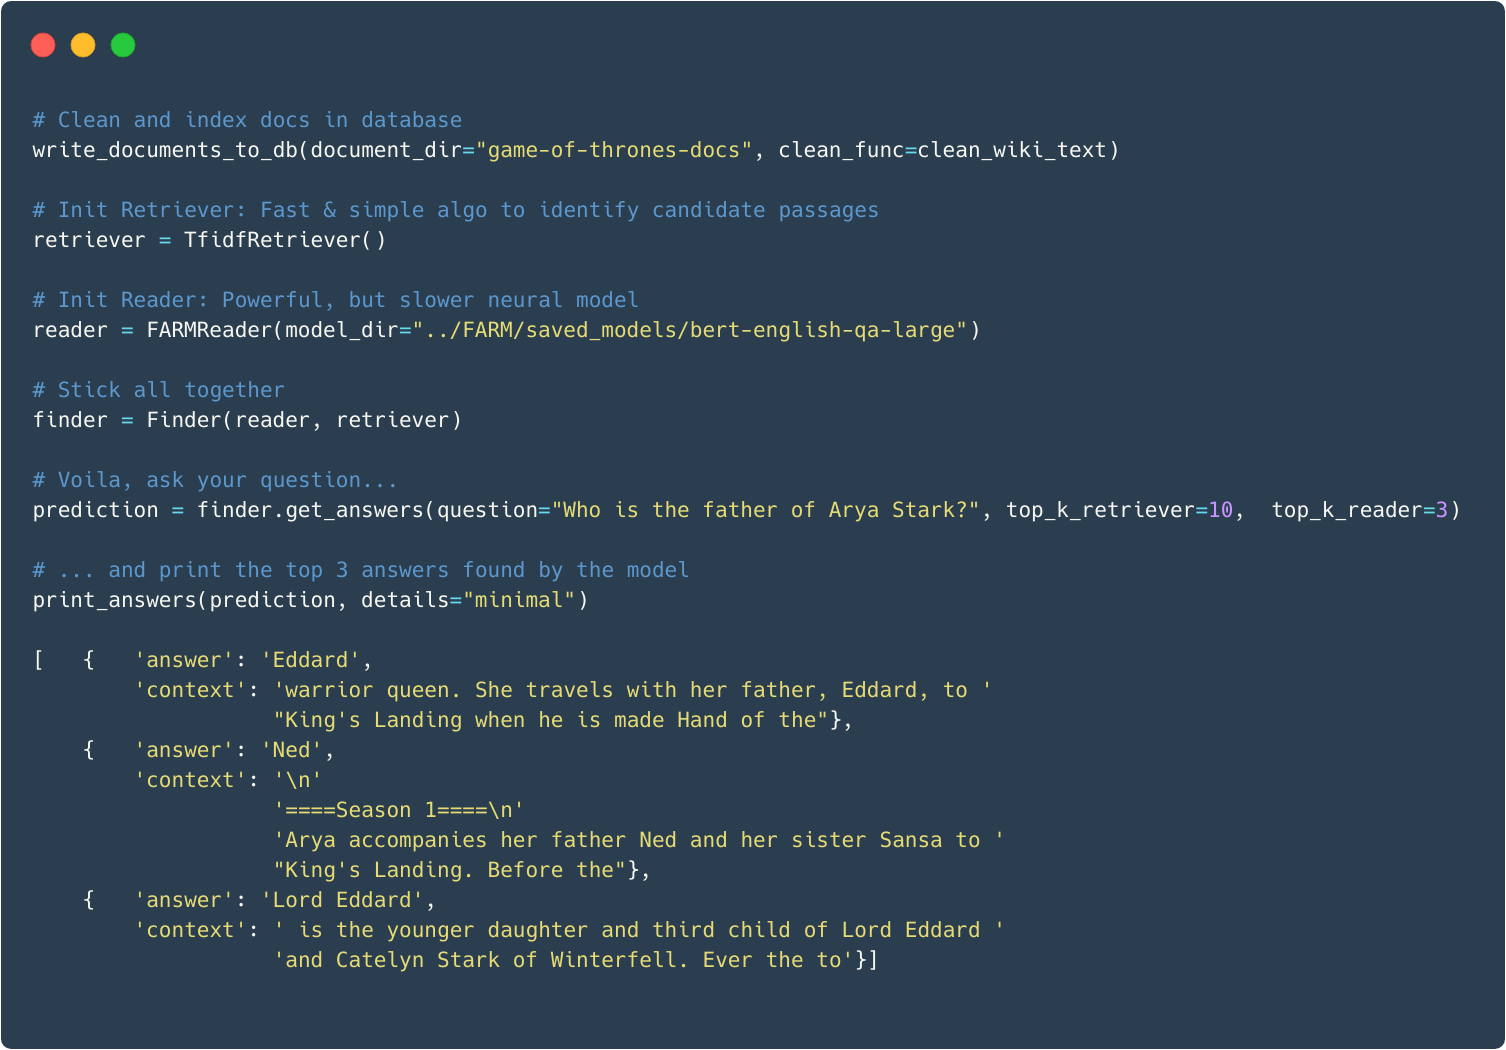
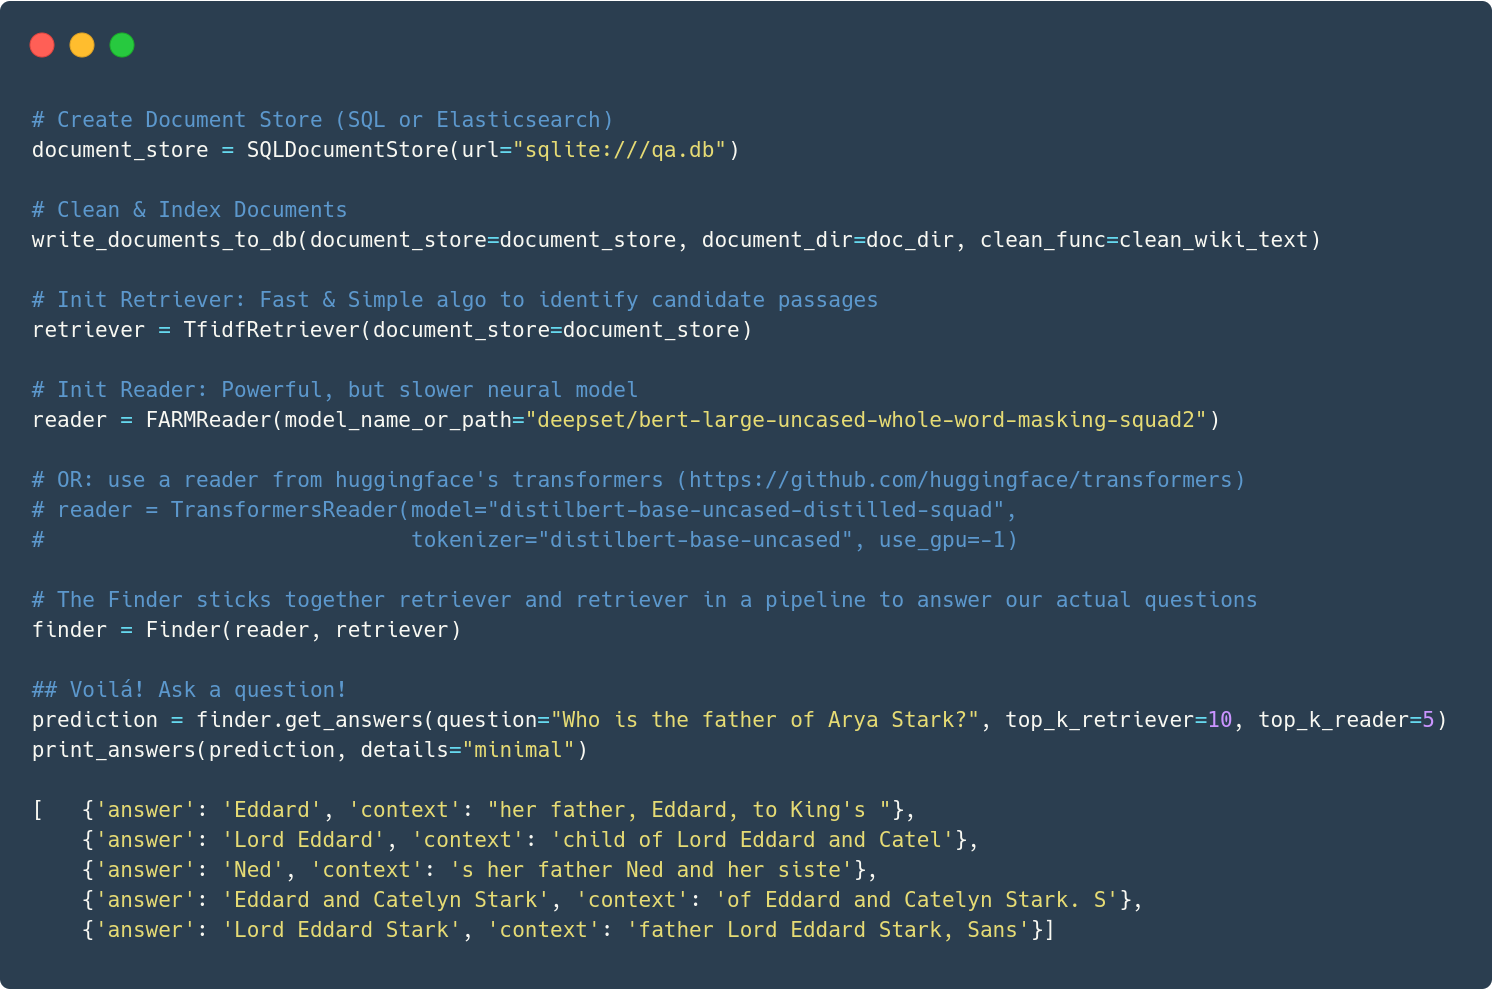
Add Elasticsearch Document Store (#13)

diff --git a/haystack/database/elasticsearch.py b/haystack/database/elasticsearch.py
@@ -1,0 +1,85 @@
+from elasticsearch import Elasticsearch
+from elasticsearch_dsl import Search, Document as ESDoc, Text, connections
+from haystack.database.base import BaseDocumentStore
+
+
+class Document(ESDoc):
+    name = Text()
+    text = Text()
+    tags = Text()
+
+    class Index:
+        name = "document"
+
+
+class ElasticsearchDocumentStore(BaseDocumentStore):
+    def __init__(self, host="localhost", username="", password="", index="document"):
+        self.client = Elasticsearch(hosts=[{"host": host}], http_auth=(username, password))
+        self.connections = connections.create_connection(hosts=[{"host": host}], http_auth=(username, password))
+        Document.init()  # create mapping if not exists.
+        self.index = index
+
+    def get_document_by_id(self, id):
+        query = {"filter": {"term": {"_id": id}}}
+        result = self.client.search(index=self.index, body=query)["hits"]["hits"]
+        if result:
+            document = {"id": result["_id"], "name": result["name"], "text": result["text"]}
+        else:
+            document = None
+        return document
+
+    def get_document_ids_by_tags(self, tags):
+        query = {
+            "query": {
+                "bool": {
+                    "should": [
+                        {
+                            "terms": {
+                                "tags": tags
+                            }
+                        }
+                    ]
+                }
+            }
+        }
+        result = self.client.search(index=self.index, body=query)["hits"]["hits"]
+        documents = []
+        for hit in result:
+            documents.append({"id": hit["_id"], "name": hit["name"], "text": hit["text"]})
+        return documents
+
+    def write_documents(self, documents):
+        for doc in documents:
+            d = Document(
+                name=doc["name"],
+                text=doc["text"],
+                document_id=doc.get("document_id", None),
+                tags=doc.get("tags", None),
+            )
+            d.save()
+
+    def get_document_count(self):
+        s = Search(using=self.client, index=self.index)
+        return s.count()
+
+    def get_all_documents(self):
+        search = Search(using=self.client, index=self.index)
+        documents = []
+        for hit in search:
+            documents.append(
+                {
+                    "id": hit.meta["id"],
+                    "name": hit["name"],
+                    "text": hit["text"],
+                }
+            )
+        return documents
+
+    def query(self, query, top_k=10):
+        search = Search(using=self.client, index=self.index).query("match", text=query)[:top_k].execute()
+        paragraphs = []
+        meta_data = []
+        for hit in search:
+            paragraphs.append(hit["text"])
+            meta_data.append({"paragraph_id": hit.meta["id"], "document_id": hit["document_id"]})
+        return paragraphs, meta_data

diff --git a/haystack/indexing/io.py b/haystack/indexing/io.py
@@ -8,7 +8,7 @@ import zipfile
 logger = logging.getLogger(__name__)
 
 
-def write_documents_to_db(datastore, document_dir, clean_func=None, only_empty_db=False):
+def write_documents_to_db(document_store, document_dir, clean_func=None, only_empty_db=False, split_paragrahs=False):
     """
     Write all text files(.txt) in the sub-directories of the given path to the connected database.
 
@@ -22,28 +22,42 @@ def write_documents_to_db(datastore, document_dir, clean_func=None, only_empty_d
 
     # check if db has already docs
     if only_empty_db:
-        n_docs = datastore.get_document_count()
+        n_docs = document_store.get_document_count()
         if n_docs > 0:
             logger.info(f"Skip writing documents since DB already contains {n_docs} docs ...  "
                         "(Disable `only_empty_db`, if you want to add docs anyway.)")
             return None
 
     # read and add docs
-    documents_to_write = []
+    docs_to_index = []
+    doc_id = 1
     for path in file_paths:
         with open(path) as doc:
             text = doc.read()
             if clean_func:
                 text = clean_func(text)
 
-            documents_to_write.append(
-                {
-                    "name": path.name,
-                    "text": text,
-                }
-            )
-    datastore.write_documents(documents_to_write)
-    logger.info(f"Wrote {len(documents_to_write)} docs to DB")
+            if split_paragrahs:
+                for para in text.split("\n\n"):
+                    if not para.strip():  # skip empty paragraphs
+                        continue
+                    docs_to_index.append(
+                        {
+                            "name": path.name,
+                            "text": para,
+                            "document_id": doc_id
+                        }
+                    )
+                    doc_id += 1
+            else:
+                docs_to_index.append(
+                    {
+                        "name": path.name,
+                        "text": text,
+                    }
+                )
+    document_store.write_documents(docs_to_index)
+    logger.info(f"Wrote {len(docs_to_index)} docs to DB")
 
 
 def fetch_archive_from_http(url, output_dir, proxies=None):

diff --git a/haystack/retriever/tfidf.py b/haystack/retriever/tfidf.py
@@ -1,7 +1,8 @@
-from abc import ABC, abstractmethod
-from collections import OrderedDict, namedtuple
 import logging
+from collections import OrderedDict, namedtuple
+
 import pandas as pd
+from haystack.retriever.base import BaseRetriever
 from sklearn.feature_extraction.text import TfidfVectorizer
 
 
@@ -9,20 +10,6 @@ logger = logging.getLogger(__name__)
 
 # TODO make Paragraph generic for configurable units of text eg, pages, paragraphs, or split by a char_limit
 Paragraph = namedtuple("Paragraph", ["paragraph_id", "document_id", "text"])
-
-
-class BaseRetriever(ABC):
-    @abstractmethod
-    def _get_all_paragraphs(self):
-        pass
-
-    @abstractmethod
-    def retrieve(self, query, candidate_doc_ids=None, top_k=1):
-        pass
-
-    @abstractmethod
-    def fit(self):
-        pass
 
 
 class TfidfRetriever(BaseRetriever):
@@ -35,7 +22,7 @@ class TfidfRetriever(BaseRetriever):
     It uses sklearn's TfidfVectorizer to compute a tf-idf matrix.
     """
 
-    def __init__(self, datastore):
+    def __init__(self, document_store):
         self.vectorizer = TfidfVectorizer(
             lowercase=True,
             stop_words=None,
@@ -43,7 +30,7 @@ class TfidfRetriever(BaseRetriever):
             ngram_range=(1, 1),
         )
 
-        self.datastore = datastore
+        self.document_store = document_store
         self.paragraphs = self._get_all_paragraphs()
         self.df = None
         self.fit()
@@ -52,12 +39,11 @@ class TfidfRetriever(BaseRetriever):
         """
         Split the list of documents in paragraphs
         """
-        documents = self.datastore.get_all_documents()
+        documents = self.document_store.get_all_documents()
 
         paragraphs = []
         p_id = 0
         for doc in documents:
-            _pgs = [d for d in doc["text"].splitlines() if d.strip()]
             for p in doc["text"].split("\n\n"):
                 if not p.strip():  # skip empty paragraphs
                     continue

diff --git a/tutorials/Tutorial1_Basic_QA_Pipeline.py b/tutorials/Tutorial1_Basic_QA_Pipeline.py
@@ -20,18 +20,18 @@ fetch_archive_from_http(url=s3_url, output_dir=doc_dir)
 # The documents can be stored in different types of "DocumentStores".
 # For dev we suggest a light-weight SQL DB
 # For production we suggest elasticsearch
-datastore = SQLDocumentStore(url="sqlite:///qa.db")
+document_store = SQLDocumentStore(url="sqlite:///qa.db")
 
 # Now, let's write the docs to our DB.
 # You can optionally supply a cleaning function that is applied to each doc (e.g. to remove footers)
 # It must take a str as input, and return a str.
-write_documents_to_db(datastore=datastore, document_dir=doc_dir, clean_func=clean_wiki_text, only_empty_db=True)
+write_documents_to_db(document_store=document_store, document_dir=doc_dir, clean_func=clean_wiki_text, only_empty_db=True)
 
 ## Initalize Reader, Retriever & Finder
 
 # A retriever identifies the k most promising chunks of text that might contain the answer for our question
 # Retrievers use some simple but fast algorithm, here: TF-IDF
-retriever = TfidfRetriever(datastore=datastore)
+retriever = TfidfRetriever(document_store=document_store)
 
 # A reader scans the text chunks in detail and extracts the k best answers
 # Reader use more powerful but slower deep learning models

diff --git a/tutorials/Tutorial2_Finetune_a_model_on_your_data.py b/tutorials/Tutorial2_Finetune_a_model_on_your_data.py
@@ -27,14 +27,14 @@ fetch_archive_from_http(url=s3_url, output_dir=doc_dir)
 
 
 # Init Document store & write docs to it
-datastore = SQLDocumentStore(url="sqlite:///qa.db")
-write_documents_to_db(datastore=datastore, document_dir=doc_dir, clean_func=clean_wiki_text, only_empty_db=True)
+document_store = SQLDocumentStore(url="sqlite:///qa.db")
+write_documents_to_db(document_store=document_store, document_dir=doc_dir, clean_func=clean_wiki_text, only_empty_db=True)
 
 ## Initalize Reader, Retriever & Finder
 
 # A retriever identifies the k most promising chunks of text that might contain the answer for our question
 # Retrievers use some simple but fast algorithm, here: TF-IDF
-retriever = TfidfRetriever(datastore=datastore)
+retriever = TfidfRetriever(document_store=document_store)
 
 # The Finder sticks together retriever and retriever in a pipeline to answer our actual questions
 finder = Finder(reader, retriever)

diff --git a/haystack/__init__.py b/haystack/__init__.py
@@ -1,8 +1,7 @@
-from haystack.retriever.tfidf import TfidfRetriever
-from haystack.reader.farm import FARMReader
 import logging
 
 import pandas as pd
+
 pd.options.display.max_colwidth = 80
 
 logger = logging.getLogger(__name__)
@@ -21,8 +20,6 @@ class Finder:
 
     def __init__(self, reader, retriever):
         self.retriever = retriever
-        self.retriever.fit()
-
         self.reader = reader
 
     def get_answers(self, question, top_k_reader=1, top_k_retriever=10, filters=None):
@@ -39,7 +36,7 @@ class Finder:
 
         # 1) Optional: reduce the search space via document tags
         if filters:
-            candidate_doc_ids = self.retriever.datastore.get_document_ids_by_tags(filters)
+            candidate_doc_ids = self.retriever.document_store.get_document_ids_by_tags(filters)
         else:
             candidate_doc_ids = None
 

diff --git a/test/test_db.py b/test/test_db.py
@@ -3,9 +3,9 @@ from haystack.indexing.io import write_documents_to_db
 
 
 def test_db_write_read():
-    sql_datastore = SQLDocumentStore()
-    write_documents_to_db(datastore=sql_datastore, document_dir="samples/docs")
-    documents = sql_datastore.get_all_documents()
+    sql_document_store = SQLDocumentStore()
+    write_documents_to_db(document_store=sql_document_store, document_dir="samples/docs")
+    documents = sql_document_store.get_all_documents()
     assert len(documents) == 2
-    doc = sql_datastore.get_document_by_id("1")
+    doc = sql_document_store.get_document_by_id("1")
     assert doc.keys() == {"id", "name", "text", "tags"}

diff --git a/haystack/database/sql.py b/haystack/database/sql.py
@@ -83,9 +83,8 @@ class SQLDocumentStore(BaseDocumentStore):
                       GROUP BY dt.document_id
               """
         tag_filters = []
-        for tag, value in tags.items():
-            if value:
-                tag_filters.append(f"SUM(CASE WHEN t.value='{value}' THEN 1 ELSE 0 END) > 0")
+        for tag in tags:
+            tag_filters.append(f"SUM(CASE WHEN t.value='{tag}' THEN 1 ELSE 0 END) > 0")
 
         final_query = f"{query} HAVING {' AND '.join(tag_filters)});"
         query_results = self.session.execute(final_query)

diff --git a/haystack/retriever/elasticsearch.py b/haystack/retriever/elasticsearch.py
@@ -1,0 +1,9 @@
+from haystack.retriever.base import BaseRetriever
+
+
+class ElasticsearchRetriever(BaseRetriever):
+    def __init__(self, document_store):
+        self.document_store = document_store
+
+    def retrieve(self, query, candidate_doc_ids=None, top_k=10):
+        return self.document_store.query(query, top_k)

diff --git a/haystack/database/base.py b/haystack/database/base.py
@@ -3,7 +3,7 @@ from abc import abstractmethod
 
 class BaseDocumentStore:
     """
-    Base class for implementing DataStores.
+    Base class for implementing Document Stores.
     """
 
     @abstractmethod

diff --git a/haystack/retriever/base.py b/haystack/retriever/base.py
@@ -1,0 +1,7 @@
+from abc import ABC, abstractmethod
+
+
+class BaseRetriever(ABC):
+    @abstractmethod
+    def retrieve(self, query, candidate_doc_ids=None, top_k=1):
+        pass

diff --git a/README.rst b/README.rst
@@ -65,21 +65,26 @@ Usage
 .. image:: https://raw.githubusercontent.com/deepset-ai/haystack/master/docs/img/code_snippet_usage.png
 
 
-Configuration
--------------
-The configuration can be supplied in a :code:`qa_config.py` placed in the PYTHONPATH. Alternatively, the :code:`DATABASE_URL` can also be set as an environment variable.
-
 
 Deployment
 ==========
 
-SQL Backend
------------
-The database ORM layer is implemented using SQLAlchemy library. By default, it uses the file-based SQLite database. For large scale deployments, the configuration can be changed to use other compatible databases like PostgreSQL or MySQL.
+Haystack has an extensible document store layer.
+There are currently implementations of Elasticsearch and SQL (see :code:`haystack.database.elasticsearch.ElasticsearchDocumentStore`  and :code:`haystack.database.sql.SQLDocumentStore`).
 
 Elasticsearch Backend
-----------------------
-(Coming soon)
+---------------------
+Elasticsearch is recommended for deploying on a large scale. The documents can optionally be chunked into smaller units (e.g., paragraphs) before indexing to make the results returned by the Retriever more granular and accurate.
+Retrievers can access an Elasticsearch index to find the relevant paragraphs(or documents) for a query. The default `ElasticsearchRetriever` uses Elasticsearch's native scoring (BM25), but can be extended easily with custom implementations.
+
+You can get started by running a single Elasticsearch node using docker::
+
+     docker run -d -p 9200:9200 -p 9300:9300 -e "discovery.type=single-node" elasticsearch:7.5.1
+
+SQL Backend
+-----------
+The SQL backend layer is mainly meant to simplify the first development steps. By default, a local file-based SQLite database is initialized.
+However, if you prefer a PostgreSQL or MySQL backend for production, you can easily configure this since our implementation is based on SQLAlchemy.
 
 REST API
 --------
